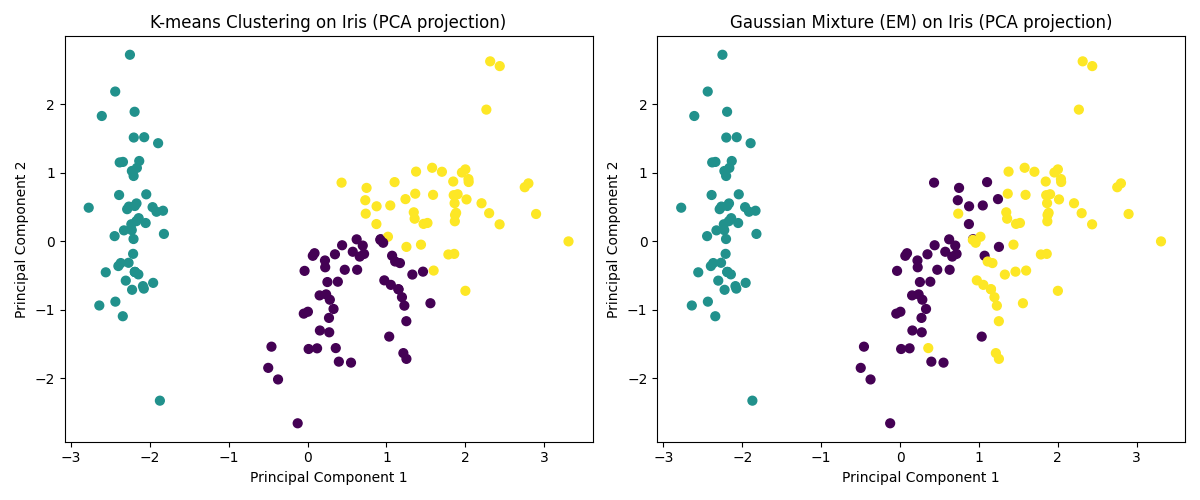
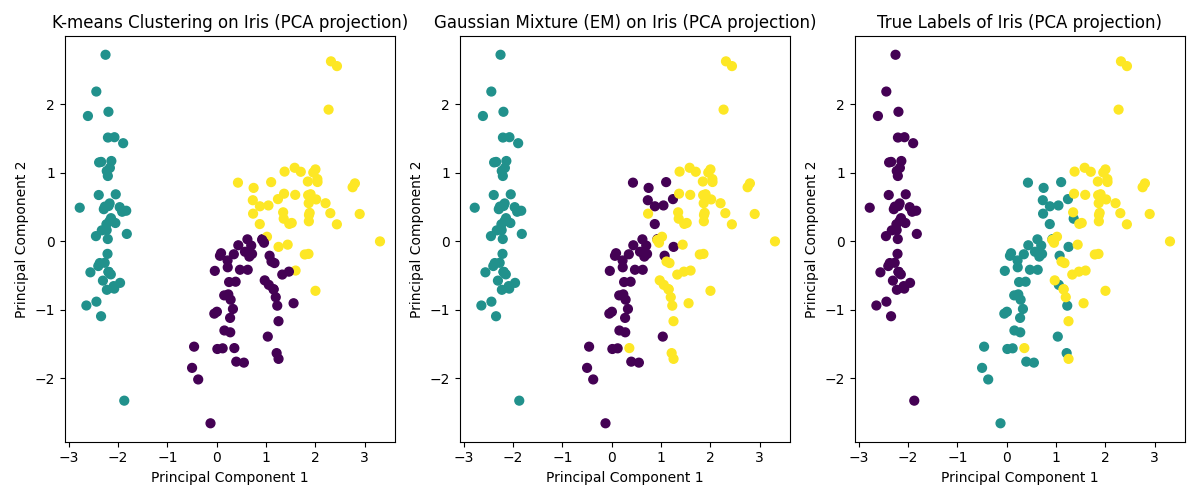
added true labels plotting and new figure accordingly

diff --git a/EM-Km.py b/EM-Km.py
@@ -55,28 +55,36 @@ print(f"ARI: {em_ari:.4f}")
 pca = PCA(n_components=2)
 X_pca = pca.fit_transform(X_std)
 
+y_index, class_names = pd.factorize(iris.data.targets.iloc[:, 0])
+
 plt.figure(figsize=(12, 5))
 
 # K-means plot
-plt.subplot(1, 2, 1)
+plt.subplot(1, 3, 1)
 plt.scatter(X_pca[:, 0], X_pca[:, 1], c=kmeans_labels, cmap="viridis", s=40)
 plt.title("K-means Clustering on Iris (PCA projection)")
 plt.xlabel("Principal Component 1")
 plt.ylabel("Principal Component 2")
 
 # GMM plot
-plt.subplot(1, 2, 2)
+plt.subplot(1, 3, 2)
 plt.scatter(X_pca[:, 0], X_pca[:, 1], c=gmm_labels, cmap="viridis", s=40)
 plt.title("Gaussian Mixture (EM) on Iris (PCA projection)")
 plt.xlabel("Principal Component 1")
 plt.ylabel("Principal Component 2")
 
+# True Labels plot
+plt.subplot(1, 3, 3)
+plt.scatter(X_pca[:, 0], X_pca[:, 1], c=y_index, cmap="viridis", s=40)
+plt.title("True Labels of Iris (PCA projection)")
+plt.xlabel("Principal Component 1")
+plt.ylabel("Principal Component 2")
+
+
 plt.tight_layout()
 plt.show()
 
 # Saving results to CSV
-y_index, class_names = pd.factorize(iris.data.targets.iloc[:, 0])
-
 results = pd.DataFrame(
     {
         "true_label": y_index,
